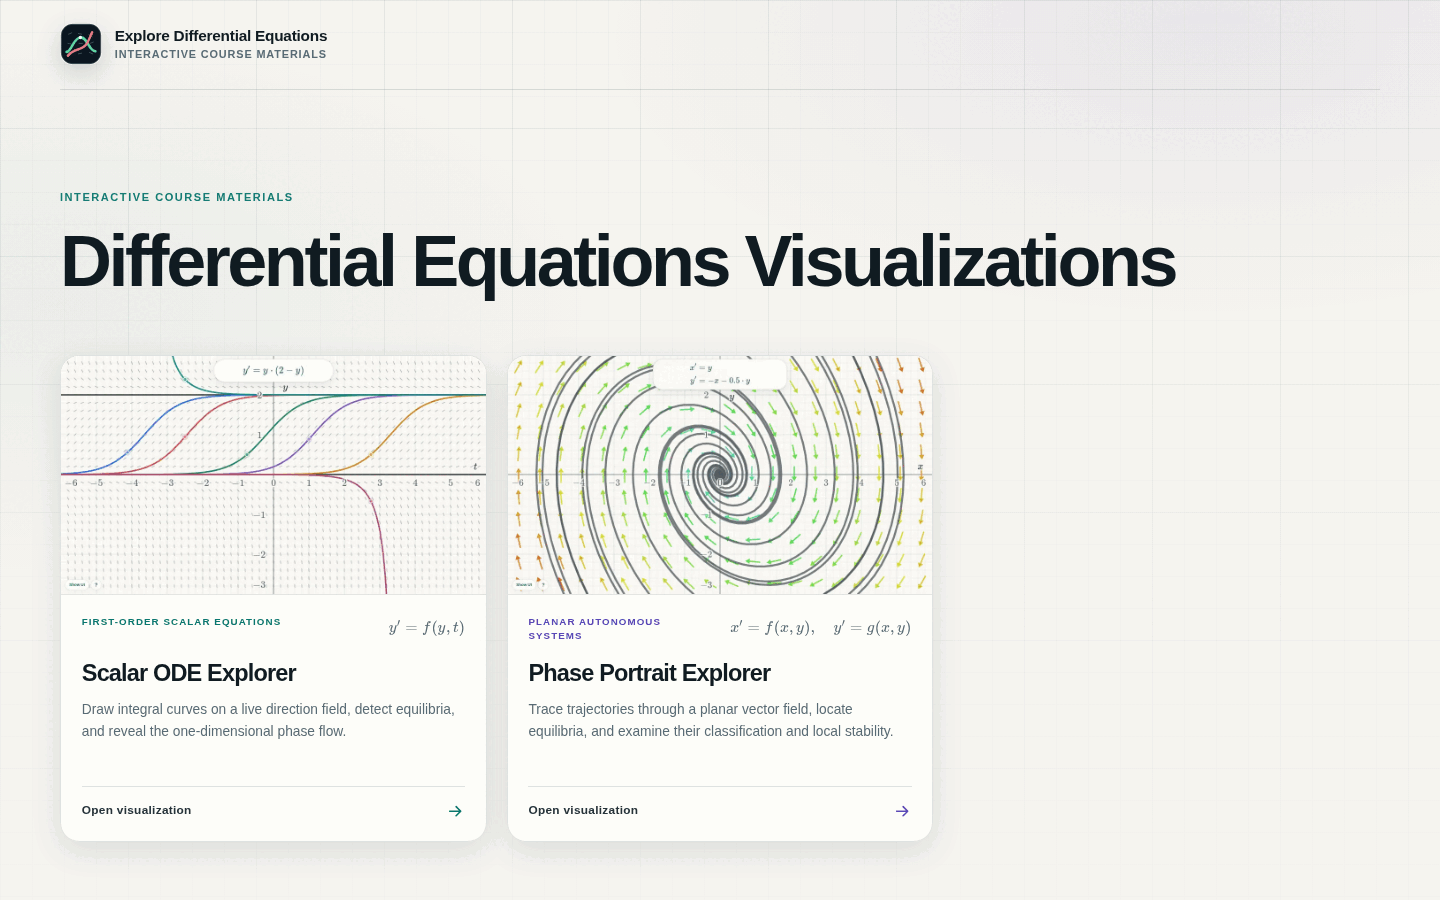
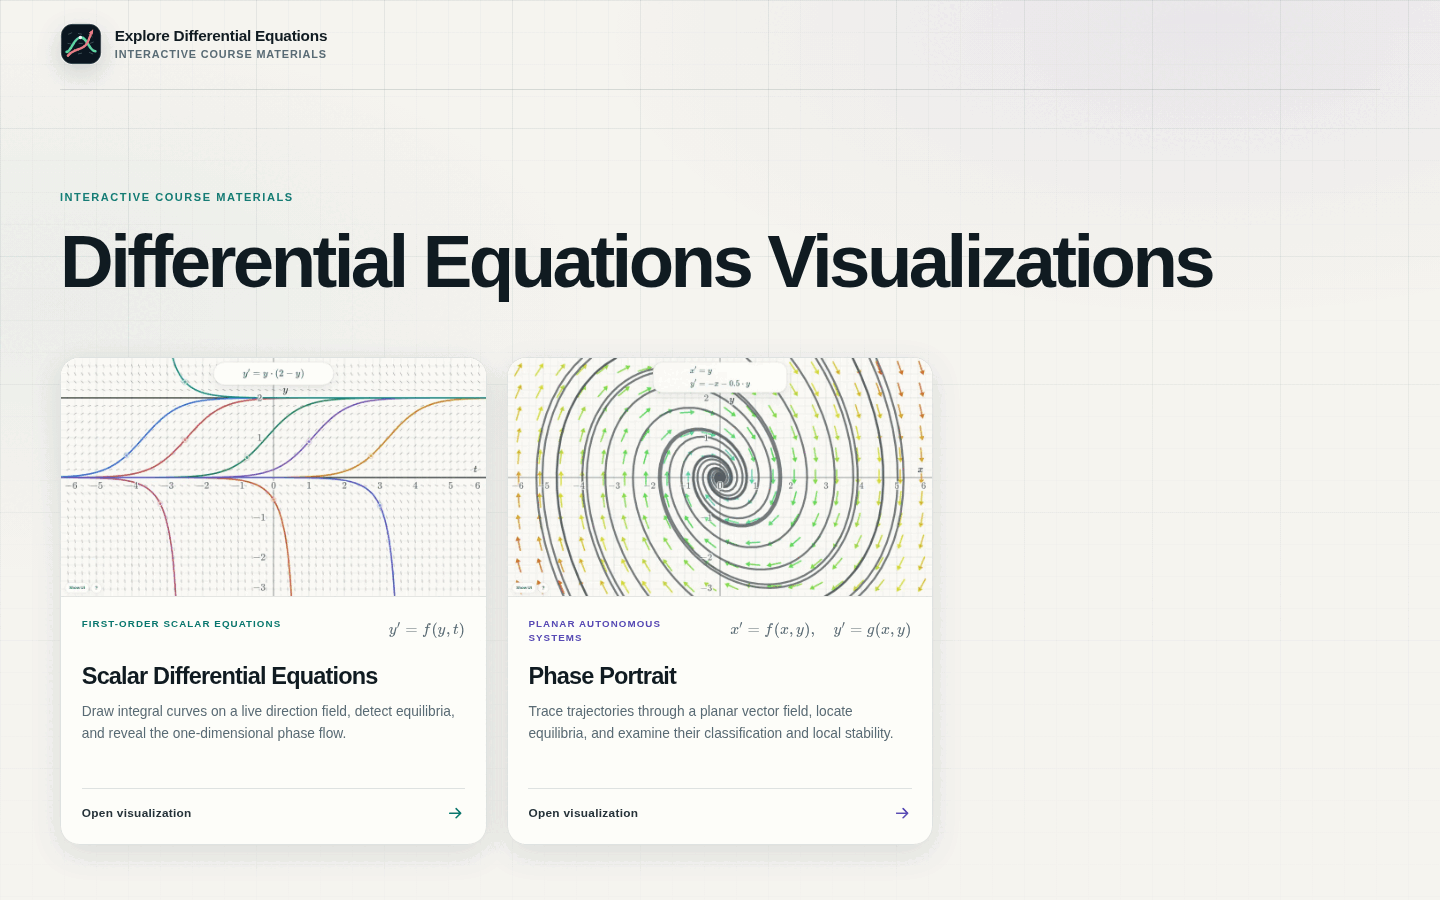
Update explorer titles and adjust CSS for academic intro section

diff --git a/src/styles/main.css b/src/styles/main.css
@@ -159,7 +159,7 @@ main,
 }
 
 .academic-intro {
-  max-width: 72rem;
+  max-width: none;
   padding: clamp(4.5rem, 7vw, 6.2rem) 0 clamp(2.6rem, 4vw, 3.6rem);
 }
 
@@ -168,10 +168,10 @@ main,
 }
 
 .academic-intro h1 {
-  max-width: 70rem;
+  max-width: none;
   margin: 0;
   color: var(--text-strong);
-  font-size: clamp(3rem, 5vw, 4.65rem);
+  font-size: clamp(1.9rem, 5.5vw, 4.65rem);
   font-weight: 680;
   letter-spacing: -0.048em;
   line-height: 1;
@@ -529,10 +529,6 @@ main,
     padding: 4.5rem 0 4.1rem;
   }
 
-  .academic-intro h1 {
-    font-size: clamp(2.9rem, 14vw, 4.7rem);
-  }
-
   .collection {
     padding: 0 0 5.5rem;
   }
@@ -561,10 +557,6 @@ main,
 
   .academic-intro {
     padding-top: 3.8rem;
-  }
-
-  .academic-intro h1 {
-    font-size: clamp(2.65rem, 13.5vw, 3.55rem);
   }
 
   .card-meta {

diff --git a/src/catalog.ts b/src/catalog.ts
@@ -12,7 +12,7 @@ export interface Explorer {
 export const explorers: readonly Explorer[] = [
   {
     id: "scalar-ode-explorer",
-    title: "Scalar ODE Explorer",
+    title: "Scalar Differential Equations",
     topic: "First-order scalar equations",
     formula: String.raw`y'=f(y,t)`,
     description:
@@ -23,7 +23,7 @@ export const explorers: readonly Explorer[] = [
   },
   {
     id: "phase-portrait-explorer",
-    title: "Phase Portrait Explorer",
+    title: "Phase Portrait",
     topic: "Planar autonomous systems",
     formula: String.raw`x'=f(x,y),\quad y'=g(x,y)`,
     description:

diff --git a/src/test/catalog.test.ts b/src/test/catalog.test.ts
@@ -13,8 +13,8 @@ describe("explorer catalog", () => {
   it("keeps the approved two-card order", () => {
     expect(explorers.map(({ id }) => id)).toEqual(expectedIds);
     expect(explorers.map(({ title }) => title)).toEqual([
-      "Scalar ODE Explorer",
-      "Phase Portrait Explorer",
+      "Scalar Differential Equations",
+      "Phase Portrait",
     ]);
   });
 

diff --git a/AGENTS.md b/AGENTS.md
@@ -9,7 +9,7 @@ Pages repository subpath.
 ## Catalog invariants
 
 - Keep explorer data in the typed catalog in `src/catalog.ts`.
-- Preserve the current card order: Scalar ODE Explorer, then Phase Portrait Explorer.
+- Preserve the current card order: Scalar Differential Equations, then Phase Portrait.
 - Use the canonical destinations already recorded in the catalog. Each complete card is a semantic
   same-tab link to its corresponding visualization.
 - Maintain a formal academic tone suitable for university students.
